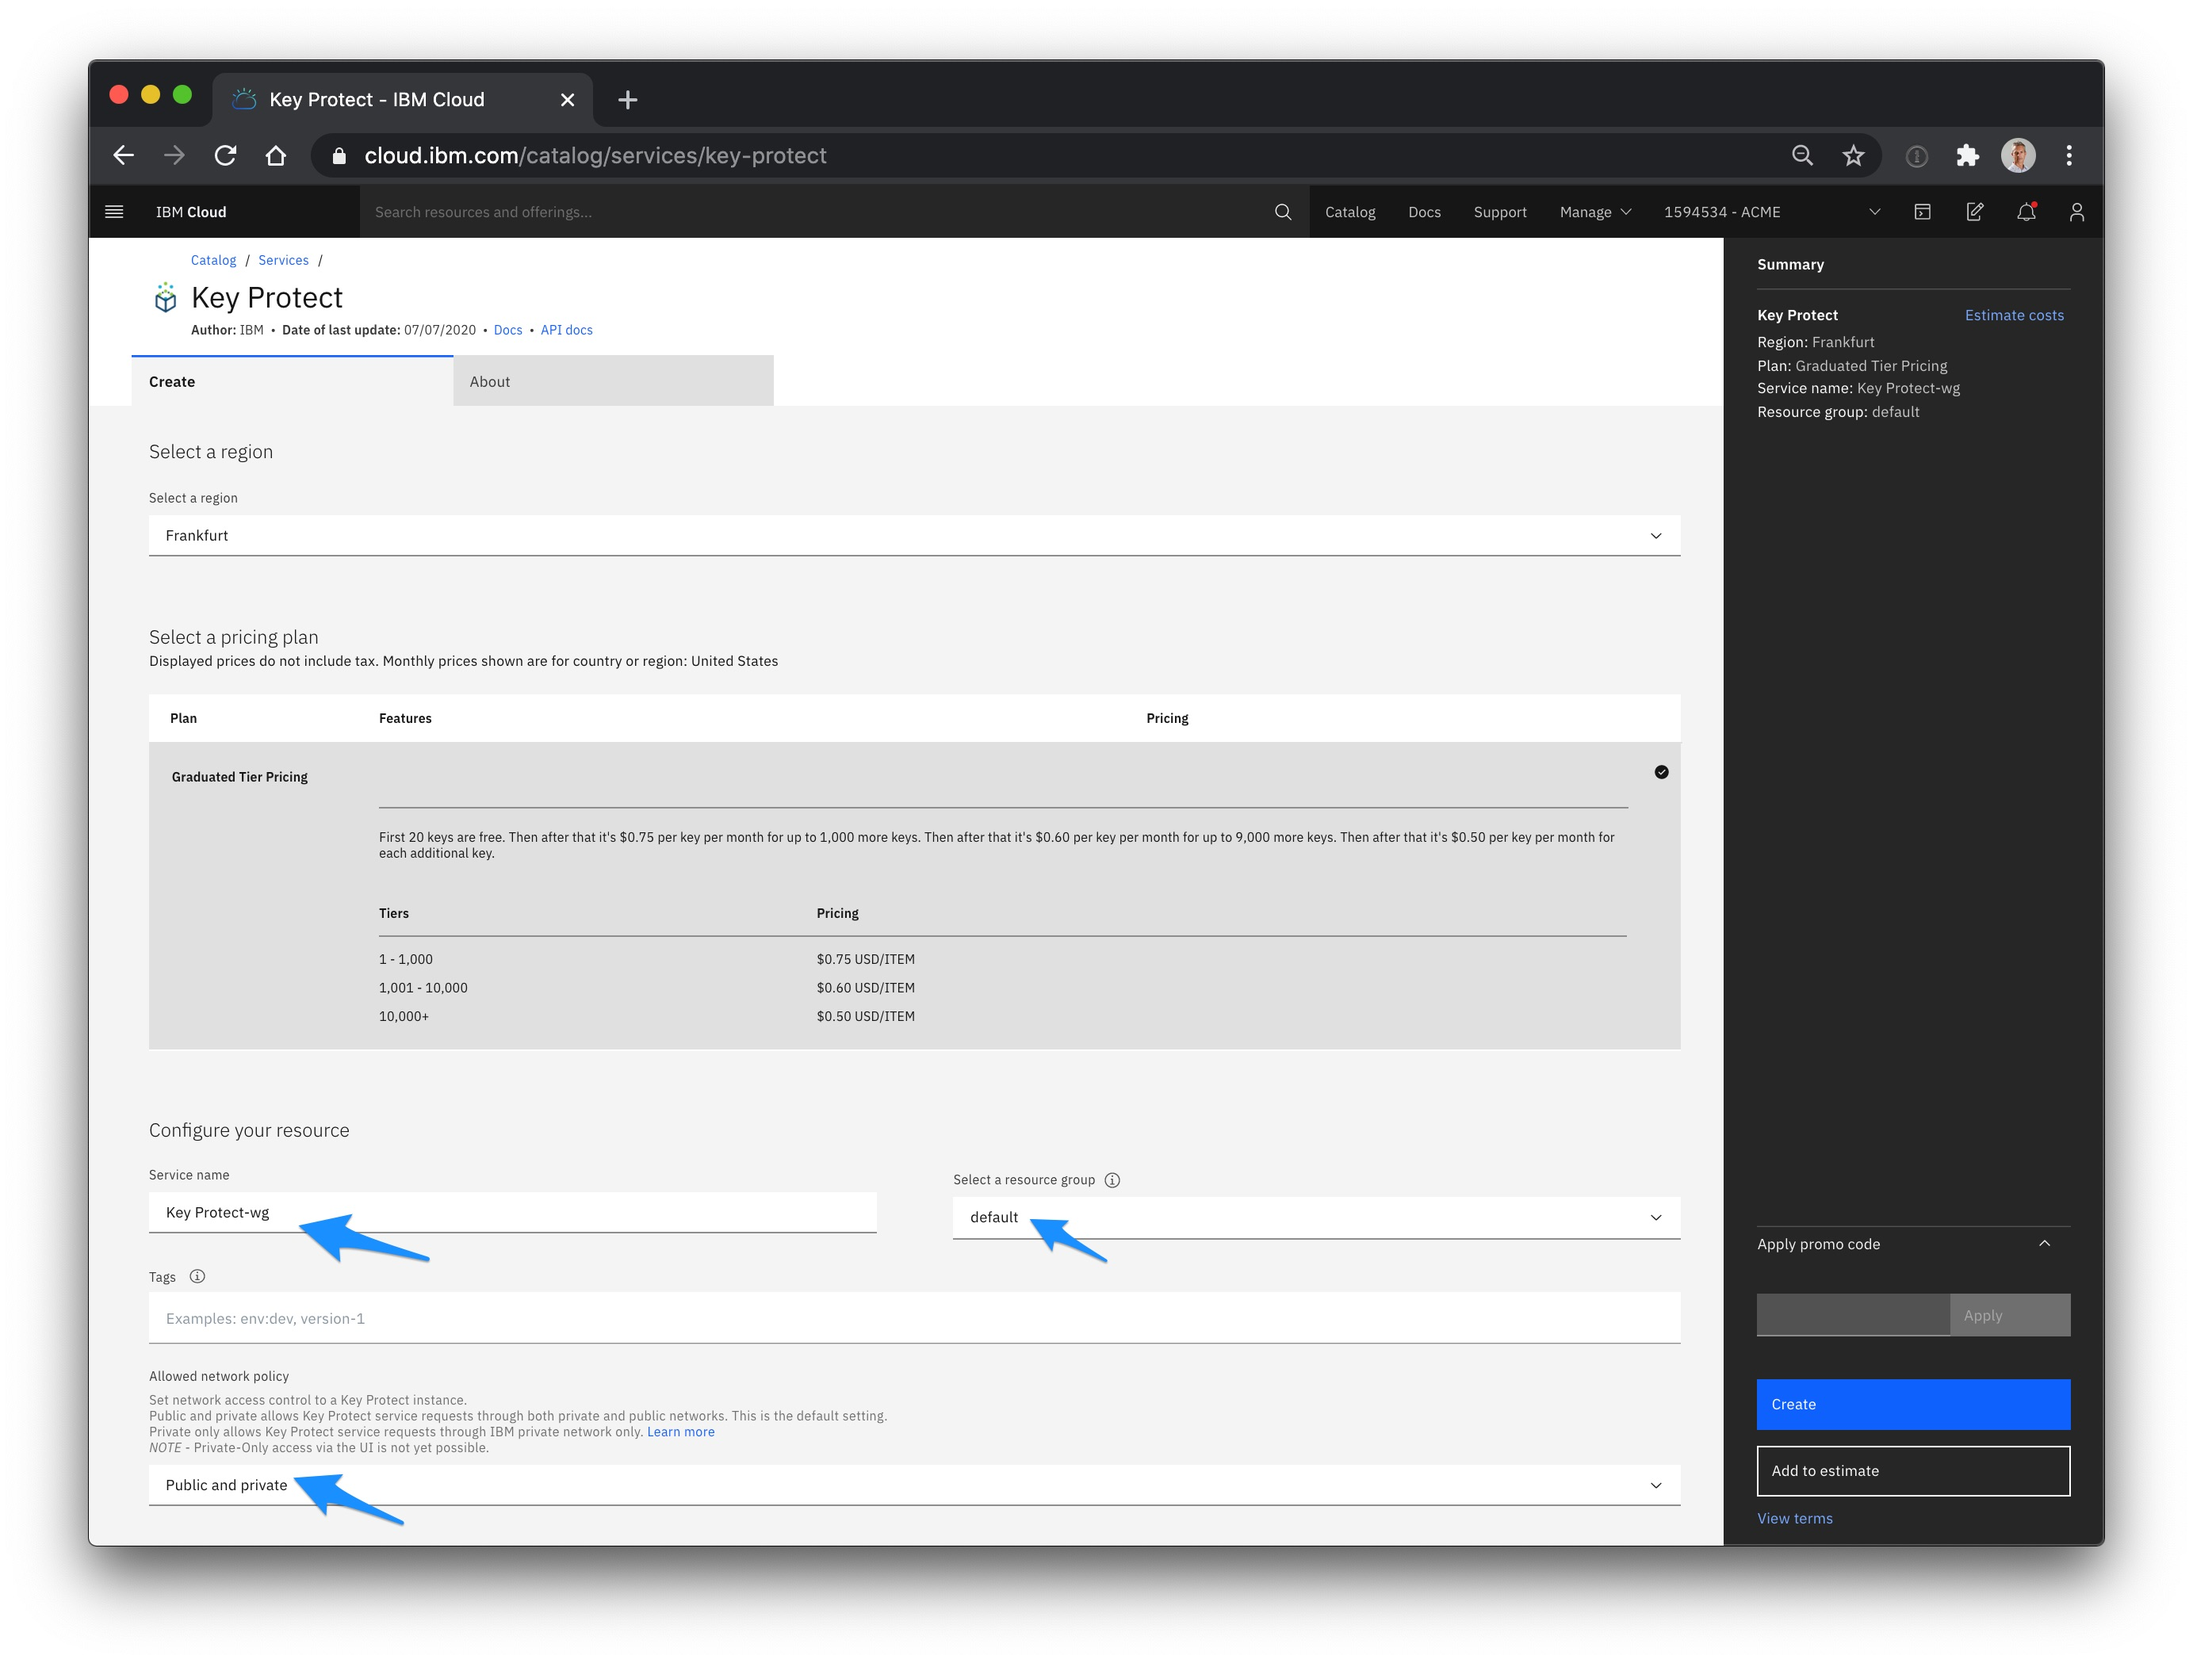
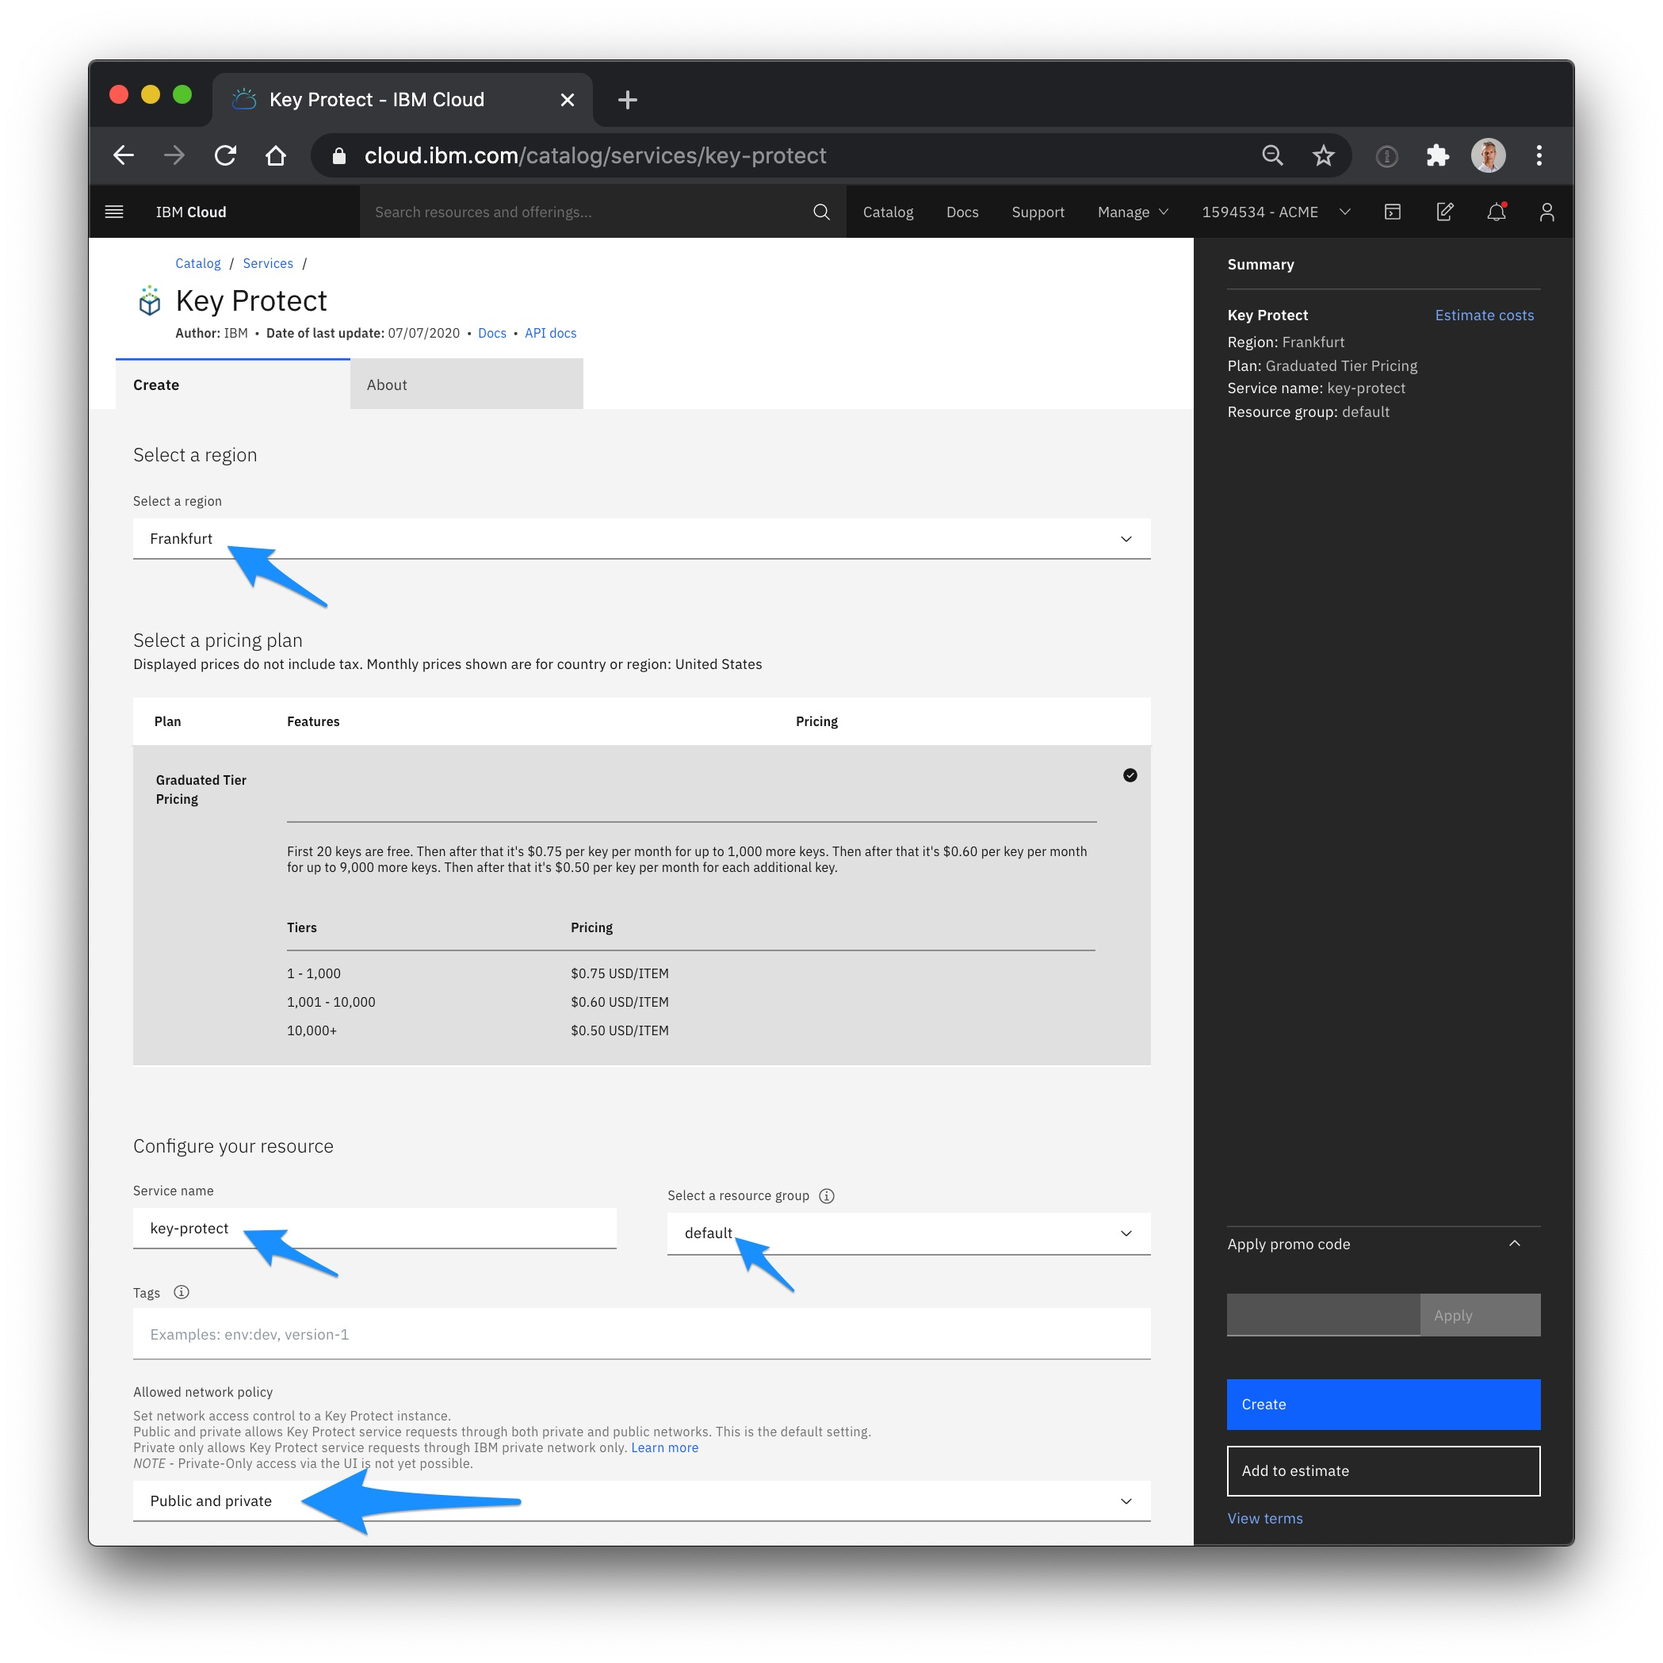
complete steps

diff --git a/README.md b/README.md
@@ -14,23 +14,58 @@ This web app built with a CLEAN stack (CLoudant NoSQL DB, Express, Angular and N
 
     ![Cluster](./images/iks-free-cluster.jpg)
 
-1. [Optional] If you want to securely store your API Key used in the Continuous Delivery later, you can provision a service [Key Protect](https://cloud.ibm.com/catalog/services/key-protect).
+1. [Optional] If you want to securely store your API Key used in the Continuous Delivery later, provision a service [Key Protect](https://cloud.ibm.com/catalog/services/key-protect).
 
-    Give it a **Name**, select a **Resource Group** and a **Network Policy**.
+    Make sure to select the same **Region** as your cluster location, enter a **Service Name**, select a **Resource Group** and a **Network Policy**.
     > 2 min provisioning time
 
     ![Key Protect](./images/key-protect.jpg)
 
 1. To automate the deployment of this app into your Kubernetes cluster, click the button **Deploy app with DevOps toolchain**.
 
+    <a href="https://cloud.ibm.com/devops/setup/deploy?repository=https://github.com/lionelmace/mytodo&branch=master" target=”_blank”>![](./images/toolchain0-button.png)</a>
+
+
+1. Enter a toolchain **Name**, select the **Region** and a **Resource Group** where your cluster was created.
+
+    ![Toolchain](./images/toolchain1-create.jpg)
+
+1. Keep the default setting in the tab **Git Repos and Issue Tracking**.
+
+    ![Toolchain](./images/toolchain2-git.jpg)
+
+1. In the tab **Delivery Pipeline**, create a new API Key.
+
+    ![Toolchain](./images/toolchain3-newkey.jpg)
+
+1. A panel will open, check the option **Save this key in a secrets store for resuse** if you have created an instance of the service Key Protect.
+
+    ![Toolchain](./images/toolchain4-secretkey.jpg)
+
+    > Keep this option unchecked if you don't have a service instance of Key Protect.
+
+1. The toolchain will automatically try to fill out the remaining information. Control the Resource Group, the region and the cluster name, then, click **Create**. 
+
+    ![Toolchain](./images/toolchain5-final.jpg)
+
+1. The toolchain will automatically try to fill out the remaining information. Control the Resource Group, the region and the cluster name, then, click **Create**. 
+
+    ![Toolchain](./images/toolchain5-final.jpg)
+
+1. The toolchain is being created. That includes a Github repo to clone the source code of the app. 
+
+    ![Toolchain](./images/toolchain6-overview.jpg)
+
+1. Click **Delivery Pipeline** in the Overview. You will the pipeline in progress.
+
     > 6 min deployment time 
+    ![Toolchain](./images/toolchain7-pipeline.jpg)
 
-    <a href="https://cloud.ibm.com/devops/setup/deploy?repository=https://github.com/lionelmace/mytodo&branch=master" target=”_blank”>![](./images/createtoolchain.png)</a>
+1. Click the link **View logs and history** in the last stage **DEPLOY**. Scroll down to the bottom. You will find the link to your application.
 
+    ![Toolchain](./images/toolchain8-applink.jpg)
 
-1. Delivery Pipeline
-
-    ![Delivery Pipeline](./images/deliverypipeline.png)
+Congratulations! Your app is up and running in the cluter.
 
 
 # Step by step Deployment
